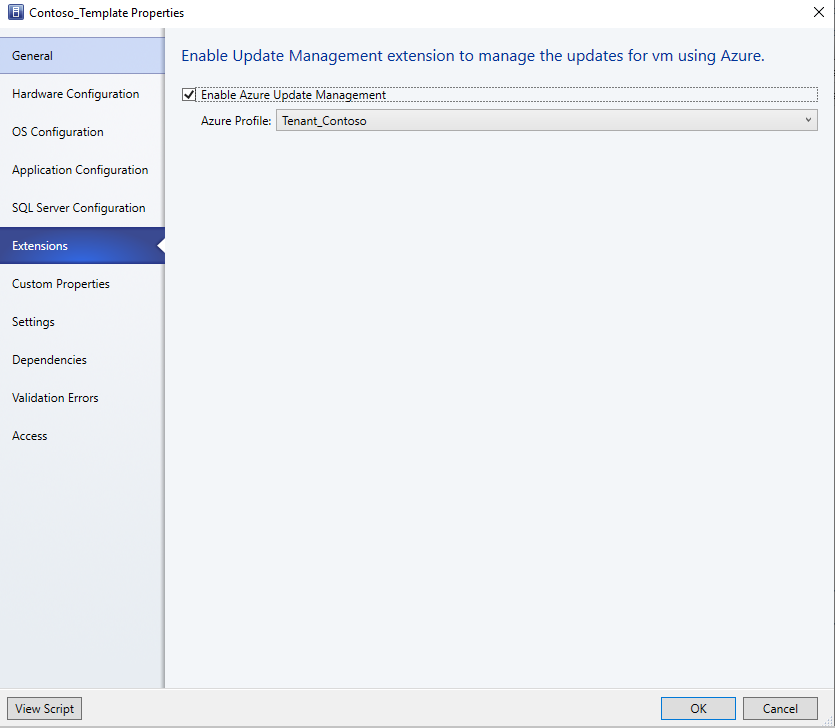
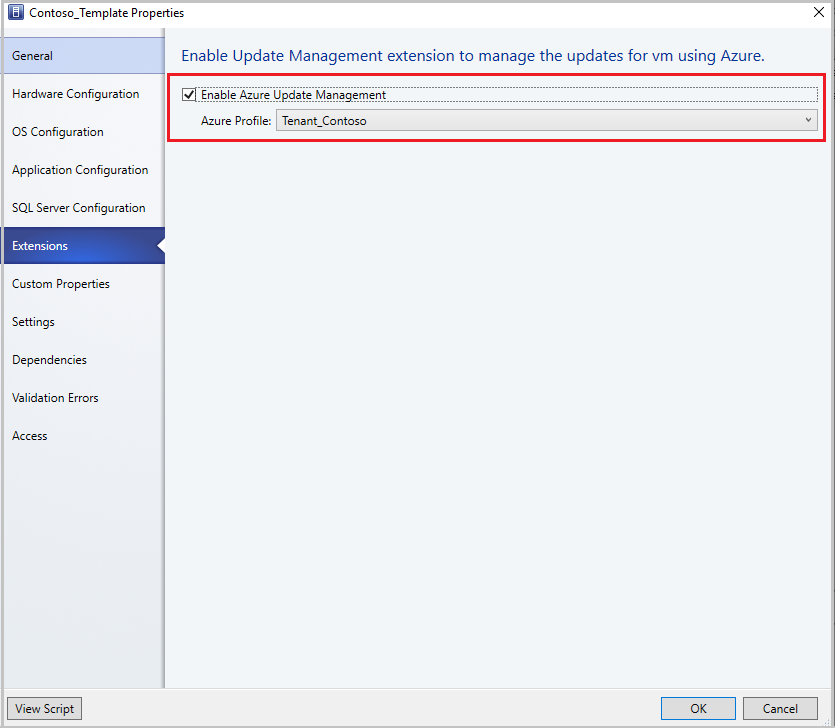
incorporating latest inputs in VMM articles

Changed region(s): [[0.0, 0.0, 1.0, 0.9973]]

diff --git a/SystemCenterDocs/vmm/vm-optimization.md b/SystemCenterDocs/vmm/vm-optimization.md
@@ -16,11 +16,17 @@ ms.technology: virtual-machine-manager
 
 Read this article to learn about enabling dynamic optimization (DO) and power optimization for virtual machines (VMs) in the System Center - Virtual Machine Manager (VMM) compute fabric. The article includes features overview, instructions for setting up BMC for power optimization, and describes how to enable and run these features.
 
+VMM 2019 and later supports DO for Compute and Storage.
 
-- **Dynamic optimization**: Using dynamic optimization, VMM performs live migration of VMs and VHDs within a host cluster, using the settings you specify, to improve load balancing among hosts and cluster shared volumes (CSVs), and to correct the placement issues for VMs.
+
+- Dynamic optimization:
+- Using dynamic optimization, VMM performs live migration of VMs and VHDs within a host cluster, using the settings you specify, to improve load balancing among hosts and cluster shared storage (Cluster shared volumes (CSV), file shares), and to correct the placement issues for VMs.
+ 	- **Compute Dynamic optimization** (Optimization of hosts) can be performed on hosts in a cluster to optimize host performance by migrating VMs across hosts. Host performance thresholds you can set  are: CPU, Memory, Disk I/O and Network I/O.
+  	- **Storage Dynamic Optimization** (Optimization of disk space, applicable for VMM 2019 and later) can be performed on cluster shared storage (CSV, file shares) in a cluster to optimize storage space availability by migrating Virtual Hard Disks (VHD) across shared storage. You can set free storage space threshold on shared storage.  
+
 - **Power optimization**: Power optimization is a feature of dynamic optimization that saves energy by turning off hosts that aren't needed to meet resource requirements within a cluster, and turns them back on when they're needed.
 
-VMM supports dynamic optimization and power optimization on Hyper-V host clusters, and on VMware host clusters in the VMM fabric that support live migration.
+VMM supports compute dynamic optimization (both compute and storage in VMM 2019 and later) and power optimization on Hyper-V host clusters. Compute dynamic optimization and power optimization is also supported on VMware host clusters in the VMM fabric that support live migration.
 
 ## Before you start
 
@@ -29,14 +35,14 @@ VMM supports dynamic optimization and power optimization on Hyper-V host cluster
 
 - Dynamic optimization and power optimization can be configured on host clusters that support live migration.
 - Dynamic optimization can be configured on a host group, to migrate virtual machines and virtual hard disks (VHDs) within host clusters with a specified frequency and aggressiveness. Aggressiveness determines the amount of load imbalance that is required to initiate a migration during dynamic optimization.
-- By default, virtual machines are migrated every 10 minutes with medium aggressiveness, if automatic migration is enabled. When configuring frequency and aggressiveness  for dynamic optimization, an administrator should factor in the resource cost of additional migrations against the advantages of balancing load among hosts/CSVs in a host cluster. By default, a host group inherits Dynamic Optimization settings from its parent host group.
+- By default, virtual machines are migrated every 10 minutes with medium aggressiveness, if automatic migration is enabled. When configuring frequency and aggressiveness  for dynamic optimization, an administrator should factor in the resource cost of additional migrations against the advantages of balancing load among hosts/CSVs/shared storage in a host cluster. By default, a host group inherits Dynamic Optimization settings from its parent host group.
 - If you set up dynamic optimization on a host group without a cluster it will have no effect.
-- Dynamic optimization can be set up for clusters with two or more nodes. If a host group contains stand-alone hosts or host clusters that do not support live migration, dynamic optimization isn't performed on those hosts. Any hosts that are in maintenance mode also are excluded from dynamic optimization. In addition, VMM only migrates highly available virtual machines that use shared storage. If a host cluster contains virtual machines that are not highly available, those virtual machines are not migrated during Dynamic Optimization.
+- Dynamic optimization can be set up for clusters with two or more nodes. Storage dynamic optimization will need two or more shared storage files/volumes to be present in the cluster. If a host group contains stand-alone hosts or host clusters that do not support live migration, dynamic optimization isn't performed on those hosts. Any hosts that are in maintenance mode also are excluded from dynamic optimization. In addition, VMM only migrates highly available virtual machines that use shared storage. If a host cluster contains virtual machines that are not highly available, those virtual machines are not migrated during Dynamic Optimization.
 - On-demand dynamic optimization is also available for individual host clusters by using the Optimize Hosts/ Optimize Disk space  action in the VMs and Services workspace. It can be performed without configuring dynamic optimization on host groups. After dynamic optimization is requested for a host cluster, VMM lists the virtual machines that will be migrated, for the administrator's approval. Optimize Hosts performs VM load balancing across hosts in a cluster, while Optimize disk space migrates VHDs across CSVs in a cluster.
 
 #### Node fairness
 
-Node fairness is a new fdature in Windows Server 2016. It identifies cluster nodes with light loads, and distributes VMs to those node to balance load. This is similar to VMM's dynamic optimization. To avoid potential performance issues, dynamic optimization and node fairness shouldn't work together. To ensure this doesn't happen VMM disables node faireness in all clusters in a host group for which dynamic optimization is set to automatic. If you enable node fairness outside the VMM console, VMM will turn it off the next time that dynamic optimization refreshes. If you do want to use node faireness, disable dynamic optimization, and then manually enable node fairness.
+Node fairness is a new feature in Windows Server 2016. It identifies cluster nodes with light loads, and distributes VMs to those node to balance load. This is similar to VMM's dynamic optimization. To avoid potential performance issues, dynamic optimization and node fairness shouldn't work together. To ensure this doesn't happen VMM disables node faireness in all clusters in a host group for which dynamic optimization is set to automatic. If you enable node fairness outside the VMM console, VMM will turn it off the next time that dynamic optimization refreshes. If you do want to use node faireness, disable dynamic optimization, and then manually enable node fairness.
 
 ### Power optimization
 
@@ -73,17 +79,25 @@ For hosts with BMC that supports IMPI 1.5/2.0, DCMI 1.0 or SMASH 1.0 overe WS-Ma
 
     To help conserve energy by having VMM turn off hosts when they are not needed and turn them on again when they are needed, configure power optimization for the host group. Power optimization is only available when virtual machines are being migrated automatically to balance load.
 
+	Disk space aggressiveness determines the amount of storage that is available by migrating VHDs between shared storage. Higher aggressiveness migrates VHDs even for small storage free space gain. Lower aggressiveness does not migrate storage, unless the gain in free storage space is high.  
+
 6.  To periodically run dynamic optimization on qualifying host clusters in the host group, enter the following settings:
 
-    1.  Select the **Automatically migrate virtual machines to balance load** check box.
+    1.  Select the **Automatically migrate virtual machines to balance load** check box to balance free storage space across shared storage.
     2. In **Frequency**, specify how often to run dynamic Optimization. You can enter any value between 10 minutes and 1440 minutes \(24 hours\).
 
-7.  To turn on power optimization on the host group, select the **Enable power optimization** check box.  Click **OK** again to save your changes.
+7. Set thresholds for each of the compute and storage ( applicable for VMM 2019) resources listed. To change the units of the resources go to  **Host group**> **Properties**  > **Host Reserves** and choose the unit from the drop- down menu.
+
+8.  To turn on power optimization on the host group, select the **Enable power optimization** check box.  Click **OK** again to save your changes.
+
+>[!NOTE]
+
+> If there is a mismatch of disk space warning levels between host groups having the same file share, it can result in multiple  to and from that file share and may impact storage DO performance. We recommended you not to do a  file share across different clusters where storage dynamic optimization is enabled.
 
 ## Configure power optimization settings
 
 
-1.  In the **Fabric** navigate to the host group and open its properties.
+1.  In the **Fabric** navigate to the host group and open **Properties**.
 2.  Click **Dynamic Optimization** > **Specify dynamic optimization settings** > **Settings**.
 3.  In **Customize Power Optimization Schedule**, change the settings for any of these resources: CPU, memory, disk I/O , or network I/O.
 4.  Under **Schedule**, select the hours when you want power optimization to be performed. Click a box to turn power optimization on or off for that hour. VMM applies the schedule according to the host time zone.
@@ -91,37 +105,20 @@ For hosts with BMC that supports IMPI 1.5/2.0, DCMI 1.0 or SMASH 1.0 overe WS-Ma
 ## Run dynamic optimization on-demand in a host cluster
 
 
-You can run dynamic optimization on demand on a host cluster. within a host cluster. To do this dynamic optimization doesn't need to be configured on the parent host group.
+You can run dynamic optimization on demand on a host cluster. To do this dynamic optimization doesn't need to be configured on the parent host group.
 
 1. Open **Fabric** > **Servers** > **Host Groups**, and navigate the host cluster.
-2. To optimize VM load on a host, click **Folder** > **Optimization** > **Optimize Hosts**. VMM performs a dynamic optimization review to determine whether virtual machines can be migrated to improve load balancing in the host cluster. If migrating virtual machines can improve load balancing, VMM displays a list of virtual machines that are recommended for migration, with the current and target hosts indicated. The list excludes any hosts that are in maintenance mode in VMM and any virtual machines that are not highly available.
-3. Click **Migrate**.
+2. To performing compute resource load balancing, click **Optimize hosts**. To perform storage load balancing across cluster shared storage, click **Optimize disks**.
+3. **To Optimize hosts**: VMM performs a dynamic optimization review to determine whether VHDs  can be migrated to improve load balancing in the host cluster. If migration of VMs can improve load balancing, VMM displays a list of VMs that are recommended for migration, with the current and target hosts indicated. The list excludes any hosts that are in maintenance mode in VMM and any virtual machines that are not highly available.
+4.	**To Optimize Disk Space**: VMM performs a dynamic optimization review to determine whether VHDs can be migrated to meet the free storage space threshold (disk space) while considering aggressiveness set in the DO page. Dynamic Optimization will only trigger when any cluster shared storage violates the disk space threshold set. If migration of  VHDs can help free the storage space threshold in all shared storage in the cluster, VMM displays a list of VHDs that are recommended for migration, with the current and target storage space indicated. VHDs will only migrate to another shared storage with the same storage classification.
 
-## Set storage DO thresholds
+>[!NOTE]
+> If VHDs are migrated between one storage type to another ( Example from a CSV to NAS file share), the storage migration will be slow.
+> If the storage optimization does not return a list of VHDs to migrate even when the threshold and aggressiveness criteria are met:
+- Check the HostVolumeID using Get-SCStorageVolume Cmdlet. If the HostVolumeID returns Null for the volume, refresh the VM and perform Storage Dynamic Optimization again.
+- Check the DiskSpacePlacementLevel of the host group using the Get-SCHostResever cmdlet. Set the DiskSpacePlacementLevel value equal to the value of Disk Space set in Host Reserve settings in the Dynamic Optimization wizard.
 
-You can set the threshold value to receive a warning while you replace the VHD placement, if the placement causes the CSV free storage space to fall below the threshold.  You can also choose to automatically migrate the VHDs when the free storage space in CSV falls below the threshold.
-
- > [!NOTE]
- >
- - Clusters should have more than one CSV.
- - By default, you can set the Dynamic Optimization (DO) at host group level. To use the settings from parent host group, select the *Use Dynamic Optimization settings from the parent host group* checkbox.
-
-Use the following steps:
-
- 1. To set CSV free space threshold and receive a warning during placement or auto VHD migration between CSVs in a cluster, go to **Dynamic Optimization**, enter a value in **Disk Space**
-  The value can be represented in either GB or % of CSV allocated storage space.
-
-2. Select the frequency to set the time interval at which the storage DO should run.
-
-	The frequency number for compute and storage DO must be the same value in minutes.
-
- 	![Set storage threshold](./media/storage-do/set-storage-do.png)
-
-> [!NOTE]
-
-> To run a storage DO manually, select a **cluster** > **Optimize Disk Space**. This operation will return a list of VHDs that will be migrated to other CSVs in the cluster if any of the CSVs had free storage below the threshold.
-
-![Run storage do manually](./media/storage-do/run-storage-do-manually.png)
+5. Click **Migrate**.
 
 ## Power a computer on and off in VMM
 

diff --git a/SystemCenterDocs/vmm/hyper-v-rolling-upgrade.md b/SystemCenterDocs/vmm/hyper-v-rolling-upgrade.md
@@ -11,10 +11,12 @@ ms.prod: system-center
 ms.technology: virtual-machine-manager
 ---
 
-# Perform a rolling upgrade of a Hyper-V host cluster to Windows Server 2016 in VMM
+# Perform a rolling upgrade of a Hyper-V host cluster to Windows Server in VMM
 
 
 Cluster rolling upgrade was introduced in Windows Server 2016. It enables you to upgrade the operating system of cluster nodes without stopping Hyper-V workloads running on the nodes. [Read more](https://docs.microsoft.com/windows-server/failover-clustering/cluster-operating-system-rolling-upgrade#requirements.aspx) about rolling upgrade requirements and architecture.
+
+System Center 2019 - Virtual Machine Manager (VMM) supports rolling upgrade of a Hyper-V host cluster to Windows Server 2019.
 
 ## Cluster rolling upgrade in VMM
 
@@ -23,16 +25,23 @@ System Center - Virtual Machine Manager (VMM) supports using the rolling upgrade
 - **Creates a template**: Creates a template of the node configuration by combining the appropriate physical computer profile with the node configuration settings detailed in the upgrade wizard.
 - **Migrates workloads**: Migrates workloads off the node so workload operations aren't interrupted.
 - **Removes node**: Puts the node into maintenance mode and then removes it from the cluster. This removes all VMM agents, virtual switch extensions, and so forth from the node.
-- **Provisions the node**: Provisions the node running Windows Server 2016, and configures it according to the saved template.
+- **Provisions the node**: Provisions the node running Windows Server 2016/2019, and configures it according to the saved template.
 - **Returns the node to VMM**: Brings the node back under VMM management and installs the VMM agent.
 - **Returns the node to the cluster**: Adds the node back into the cluster, brings it out of maintenance mode, and returns virtual machine workloads to it.
+
+::: moniker range="sc-vmm-2019"
+
+>[!NOTE]
+>  Ensure to install the latest updates on the VHD that you use as physical computer profile.
+
+::: moniker-end
 
 ## Before you start
 
 Review the platform [restrictions and limitations](https://docs.microsoft.com/windows-server/failover-clustering/cluster-operating-system-rolling-upgrade#restrictions--limitations) before you start Cluster rolling upgrade.
 
 - The cluster must be managed by VMM.
-- The cluster must be running Windows Server 2012 R2.
+- The cluster must be running Windows Server 2012 R2 (in case of releases prior to 2019) or Windows Server 2016 (in case of VMM 2019).
 - The cluster must meet the [requirements](hyper-v-bare-metal.md#before-you-start) for bare metal deployment. The only exception is that the physical computer profile doesn't need to include network or disk configuration details. During the upgrade VMM records the node's network and disk configuration and uses that information instead of the computer profile.
 - You can upgrade nodes that weren't originally provisioned using bare metal as long as those nodes meet bare metal requirements such as BMC. You'll need to provide this information in the upgrade wizard.
 - The VMM library needs a virtual hard disk configured with Windows Server 2016.
@@ -45,6 +54,6 @@ Review the platform [restrictions and limitations](https://docs.microsoft.com/wi
 1. In **Deployment Customization**, review the nodes to upgrade. If the wizard couldn't figure out all of the settings it displays a **Missing Settings** alert for the node. For example if the node wasn't provisioned by bare metal BMC settings might not be complete. Fill in the missing information.
     - Enter the BMC IP address if required. You can also change the node name. Don't clear **Skip Active Directory check for this computer name** unless you're changing the node name and you want to make sure the new name is not in use.
     - In the network adapter configuration you can specify the MAC address. Do this if you're configuring the management adapter for the cluster, and you want to configure it as a virtual network adapter. It's not the MAC address of the BMC. If you choose to specify static IP settings for the adapter, select a logical network and an IP subnet if applicable. If the subnet contains and address pool you can select **Obtain an IP address corresponding to the selected subnet**. Otherwise type an IP address within the logical network.
-5. In **Summary** click **Finish** to begin the upgrade. If the wizard finishes the node upgrades successfully, all of the cluster nodes are running Windows Server 2016 the wizard upgrade the cluster functional level to Windows Server 2016.
+5. In **Summary** click **Finish** to begin the upgrade. If the wizard finishes the nodes upgrade successfully, the wizard upgrade the cluster functional level to Windows Server 2016/2019.
 
-If for some reason you need to update the cluster functional level of a cluster that was upgraded outside VMM you can upgrade the functional level by right-clicking the **Cluster** > **Update Version**. This could happen if you upgrade the cluster nodes before adding the cluster to the VMM fabric, but the cluster is still functioning as a Windows Server 2012 R2 cluster.
+If for some reason you need to update the cluster functional level of a cluster that was upgraded outside VMM, right-click the **Cluster** > **Update Version**. This could happen if you upgrade the cluster nodes before adding the cluster to the VMM fabric, but the cluster is still functioning as a Windows Server 2012 R2/2016 cluster.

diff --git a/SystemCenterDocs/vmm/azure-subscription.md b/SystemCenterDocs/vmm/azure-subscription.md
@@ -103,16 +103,16 @@ You can add Microsoft Azure subscriptions to System Center 2019 - Virtual Machin
 With VMM 2019, using Azure profile, you can define the intended usage of the profile. Currently, Azure-VMM integration scenario supports the following:  
 
 -	**Azure VM Management** – perform basic actions on Azure VM instances without leaving the VMM console.
-- 	**Azure Update Management** – install the update on the VMs managed by the VMM.
+- 	**Azure Update Management** – install the update on the VMs managed by VMM.
 
 ## Before you start
-Here's what you need to add an Azure profile in VMM:
+Here's what you need to add an Azure profile for Azure VM management:
 
 **Requirement**| **Details**
 --- | ---
 **Azure subscription** | You need at least one Azure subscription to add it to the VMM console.
 **Internet connectivity** | The computer on which you install the feature must be able to connect to the Azure subscription.
-**AD Authentication** | To enable management of both Classic and Azure Resource Manager based VMs, the subscription must have Active Directory-based authentication associated with it. <br/><br/> Create an Azure AD application using Azure portal and make a note of the directory ID, application ID and Key. <br/><br/> Assign application to Classic VM contributor and VM contributor roles by using *Subscription – Access Control (IAM) – Add*.
+**AD Authentication** | To enable management of both Classic and ARM-based VMs, the subscription must have Active Directory-based authentication associated with it. <br/><br/> Create an Azure AD application using Azure portal and make a note of the directory ID, application ID and Key. <br/><br/> Assign application to Classic VM contributor and VM contributor roles by using *Subscription – Access Control (IAM) – Add*.
 
 Here's what you need to do to create an Azure profile for Azure Update Management:
 
@@ -182,7 +182,7 @@ Follow these steps:
     ![extension page](./media/azure-profile/extensions-page.png)
 
 4.	Deploy the VMs from the VM template.
-5.	VMM onboards the VMs deployed through VM template to the *Azure Update Management* service and provides the link to the Azure console for managing the updates in the console.
+5.	VMM does the onboarding for the VMs deployed through VM template to the *Azure Update Management* service and provides the link to the Azure console for managing the updates.
     ![virtual machines information](./media/azure-profile/virtual-machines-information.png)
 6.	Click the **Update Status** link under **Azure Update Management info** to assess and deploy the updates for the VM.
 

diff --git a/SystemCenterDocs/vmm/account-user-role.md b/SystemCenterDocs/vmm/account-user-role.md
@@ -26,6 +26,10 @@ This article describes how to set up System Center - Virtual Machine Manager (VM
     - **Administrator role**: Administrators can add and remove users
     - **Delegate Administrator role**: Administrators can create the role. Delegated Administrators can create Delegated Administrator roles that include a subset of their scope, library servers, and Run As accounts.
     - **Read-only Administrator role**: Administrators can create the role. Delegated Administrators can create Read-only Administrator roles that include a subset of their scope, library servers, and Run As accounts.
+
+::: moniker range="sc-vmm-2019"
+    - **Administrator role**: Administrators can create the role. Delegated Administrators can create VM Administrator roles that include a subset of their scope, library servers, and Run As accounts.
+::: moniker-end    
     - **Virtual Machine Administrator role**: Administrators can create the role.
     Delegated Administrator can create VM administrator role that includes entire scope or a subset of their scope, library servers and Run-As accounts.
 

diff --git a/SystemCenterDocs/includes/whats-new-vmm-2019.md b/SystemCenterDocs/includes/whats-new-vmm-2019.md
@@ -17,7 +17,7 @@ See the following sections for detailed information about the new features/featu
 ## Compute
 
 ###	Cluster Rolling upgrade for S2D clusters
-
+System Center 2019 - Virtual Mahchine Manager (VMM) supports rolling upgrade of a Hyper-V host cluster to Windows Server 2019.
 
 ## Storage
 
